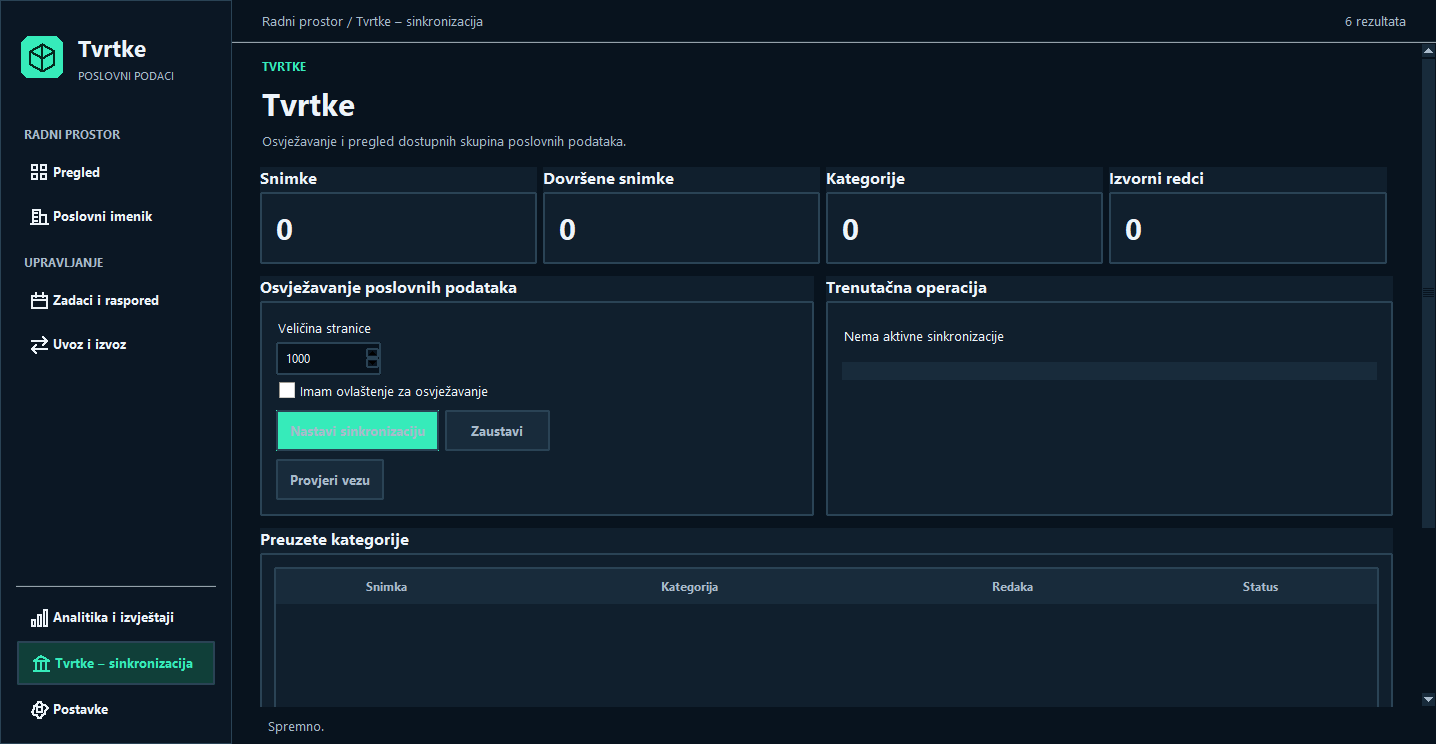
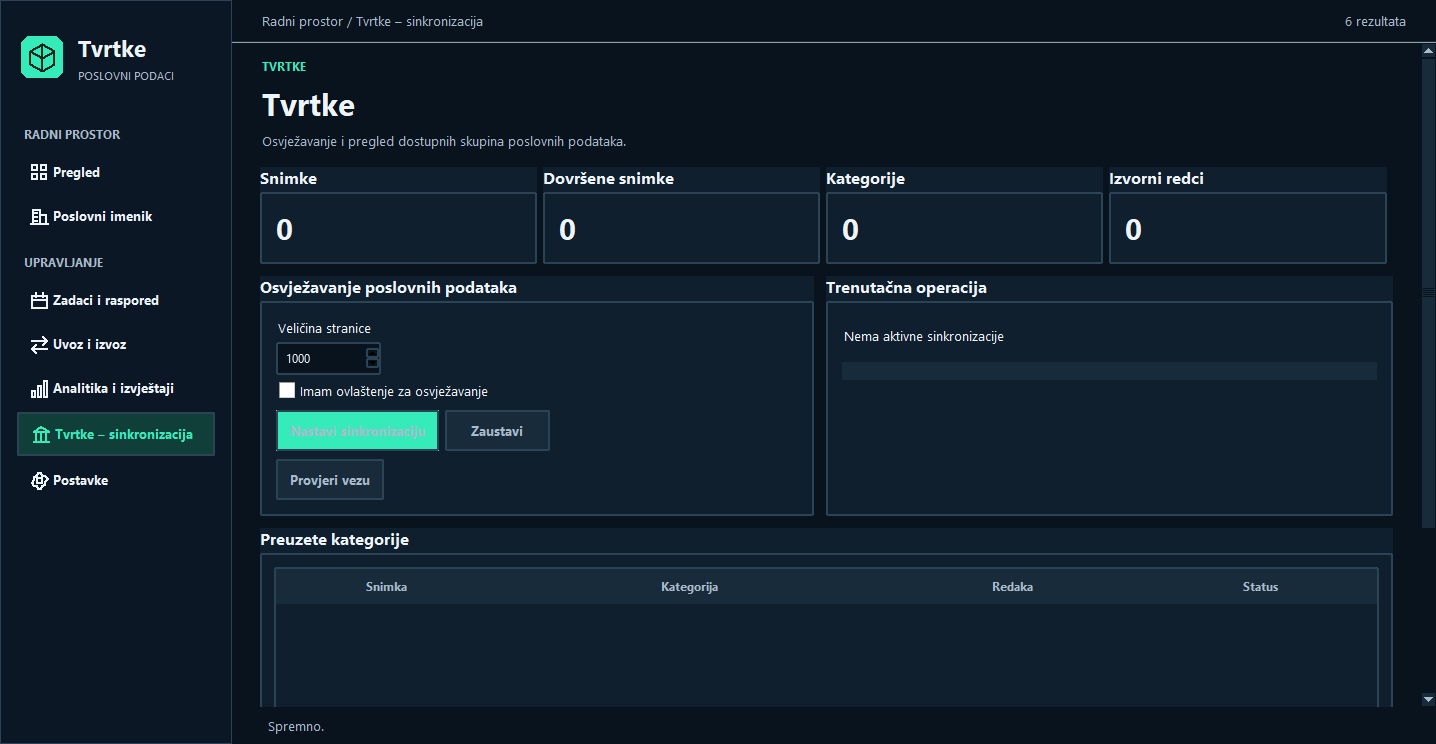
Keep all navigation items together and compact on small windows

Changed region(s): [[0.0, 0.8038, 0.1532, 0.9583], [0.0, 0.4946, 0.1532, 0.6492]]

diff --git a/static/index.html b/static/index.html
@@ -1,5 +1,5 @@
 <!doctype html><html lang="hr" data-theme="dark" data-language="__LANGUAGE__"><head><link rel="icon" href="/logo.svg" type="image/svg+xml"><meta charset="utf-8"><meta name="viewport" content="width=device-width, initial-scale=1"><meta name="local-token" content="__TOKEN__"><title>Tvrtke — Poslovni imenik</title><link rel="stylesheet" href="/style.css"><script defer src="/locale.js"></script><script defer src="/app.js"></script></head><body>
-<aside class="sidebar"><div class="brand"><div class="mark"><svg viewBox="0 0 32 32" fill="none"><path d="M16 4 28 11v10l-12 7L4 21V11L16 4Zm0 0v10m12-3-12 7-12-7m12 7v10M10 8l12 7" stroke="currentColor" stroke-width="2" stroke-linecap="round" stroke-linejoin="round"/></svg></div><div>Tvrtke<span>POSLOVNI PODACI</span></div></div><p class="nav-label">RADNI PROSTOR</p><nav><button class="nav active" data-view="overview" aria-current="page"><span class="ico"><svg viewBox="0 0 24 24" fill="none" stroke="currentColor" stroke-width="1.6" stroke-linecap="round" stroke-linejoin="round" aria-hidden="true" focusable="false"><rect x="3" y="3" width="7" height="7" rx="1"/><rect x="14" y="3" width="7" height="7" rx="1"/><rect x="3" y="14" width="7" height="7" rx="1"/><rect x="14" y="14" width="7" height="7" rx="1"/></svg></span> Pregled</button><button class="nav" data-view="directory"><span class="ico"><svg viewBox="0 0 24 24" fill="none" stroke="currentColor" stroke-width="1.6" stroke-linecap="round" stroke-linejoin="round" aria-hidden="true" focusable="false"><path d="M4 21V4h10v17M14 9h6v12M2 21h20M7 7h4M7 11h4M7 15h4M17 12h1M17 16h1"/></svg></span> Poslovni imenik</button></nav><p class="nav-label">UPRAVLJANJE</p><button class="nav" data-view="jobs"><span class="ico"><svg viewBox="0 0 24 24" fill="none" stroke="currentColor" stroke-width="1.6" stroke-linecap="round" stroke-linejoin="round" aria-hidden="true" focusable="false"><rect x="3" y="5" width="18" height="16" rx="2"/><path d="M7 3v4m10-4v4M3 10h18"/></svg></span> Zadaci i raspored</button><nav><button class="nav" data-view="data"><span class="ico"><svg viewBox="0 0 24 24" fill="none" stroke="currentColor" stroke-width="1.6" stroke-linecap="round" stroke-linejoin="round" aria-hidden="true" focusable="false"><path d="M3 7h16m-4-4 4 4-4 4M21 17H5m4-4-4 4 4 4"/></svg></span> Uvoz i izvoz</button></nav><div class="sidebottom"><div class="secondary-nav"><button class="nav" data-view="analytics"><span class="ico"><svg viewBox="0 0 24 24" fill="none" stroke="currentColor" stroke-width="1.6" stroke-linecap="round" stroke-linejoin="round" aria-hidden="true" focusable="false"><rect x="3" y="13" width="4" height="8" rx="1"/><rect x="10" y="8" width="4" height="13" rx="1"/><rect x="17" y="3" width="4" height="18" rx="1"/></svg></span> Analitika i izvještaji</button><button class="nav" data-view="registry"><span class="ico"><svg viewBox="0 0 24 24" fill="none" stroke="currentColor" stroke-width="1.6" stroke-linecap="round" stroke-linejoin="round" aria-hidden="true" focusable="false"><path d="m3 8 9-5 9 5H3Zm2 3v8m5-8v8m4-8v8m5-8v8M3 21h18"/></svg></span> Tvrtke – sinkronizacija</button><button class="nav" data-view="settings"><span class="ico"><svg viewBox="0 0 24 24" fill="none" stroke="currentColor" stroke-width="1.6" stroke-linecap="round" stroke-linejoin="round" aria-hidden="true" focusable="false"><path d="m10 3-.6 2.5-2 .9-2.4-1.1-2 3.4 2 1.7v2.2l-2 1.7 2 3.4 2.4-1.1 2 .9L10 21h4l.6-2.5 2-.9 2.4 1.1 2-3.4-2-1.7v-2.2l2-1.7-2-3.4-2.4 1.1-2-.9L14 3z"/><circle cx="12" cy="12" r="3"/></svg></span> Postavke</button></div></div></aside>
+<aside class="sidebar"><div class="brand"><div class="mark"><svg viewBox="0 0 32 32" fill="none"><path d="M16 4 28 11v10l-12 7L4 21V11L16 4Zm0 0v10m12-3-12 7-12-7m12 7v10M10 8l12 7" stroke="currentColor" stroke-width="2" stroke-linecap="round" stroke-linejoin="round"/></svg></div><div>Tvrtke<span>POSLOVNI PODACI</span></div></div><p class="nav-label">RADNI PROSTOR</p><nav><button class="nav active" data-view="overview" aria-current="page"><span class="ico"><svg viewBox="0 0 24 24" fill="none" stroke="currentColor" stroke-width="1.6" stroke-linecap="round" stroke-linejoin="round" aria-hidden="true" focusable="false"><rect x="3" y="3" width="7" height="7" rx="1"/><rect x="14" y="3" width="7" height="7" rx="1"/><rect x="3" y="14" width="7" height="7" rx="1"/><rect x="14" y="14" width="7" height="7" rx="1"/></svg></span> Pregled</button><button class="nav" data-view="directory"><span class="ico"><svg viewBox="0 0 24 24" fill="none" stroke="currentColor" stroke-width="1.6" stroke-linecap="round" stroke-linejoin="round" aria-hidden="true" focusable="false"><path d="M4 21V4h10v17M14 9h6v12M2 21h20M7 7h4M7 11h4M7 15h4M17 12h1M17 16h1"/></svg></span> Poslovni imenik</button></nav><p class="nav-label">UPRAVLJANJE</p><button class="nav" data-view="jobs"><span class="ico"><svg viewBox="0 0 24 24" fill="none" stroke="currentColor" stroke-width="1.6" stroke-linecap="round" stroke-linejoin="round" aria-hidden="true" focusable="false"><rect x="3" y="5" width="18" height="16" rx="2"/><path d="M7 3v4m10-4v4M3 10h18"/></svg></span> Zadaci i raspored</button><nav><button class="nav" data-view="data"><span class="ico"><svg viewBox="0 0 24 24" fill="none" stroke="currentColor" stroke-width="1.6" stroke-linecap="round" stroke-linejoin="round" aria-hidden="true" focusable="false"><path d="M3 7h16m-4-4 4 4-4 4M21 17H5m4-4-4 4 4 4"/></svg></span> Uvoz i izvoz</button></nav><nav><button class="nav" data-view="analytics"><span class="ico"><svg viewBox="0 0 24 24" fill="none" stroke="currentColor" stroke-width="1.6" stroke-linecap="round" stroke-linejoin="round" aria-hidden="true" focusable="false"><rect x="3" y="13" width="4" height="8" rx="1"/><rect x="10" y="8" width="4" height="13" rx="1"/><rect x="17" y="3" width="4" height="18" rx="1"/></svg></span> Analitika i izvještaji</button><button class="nav" data-view="registry"><span class="ico"><svg viewBox="0 0 24 24" fill="none" stroke="currentColor" stroke-width="1.6" stroke-linecap="round" stroke-linejoin="round" aria-hidden="true" focusable="false"><path d="m3 8 9-5 9 5H3Zm2 3v8m5-8v8m4-8v8m5-8v8M3 21h18"/></svg></span> Tvrtke – sinkronizacija</button><button class="nav" data-view="settings"><span class="ico"><svg viewBox="0 0 24 24" fill="none" stroke="currentColor" stroke-width="1.6" stroke-linecap="round" stroke-linejoin="round" aria-hidden="true" focusable="false"><path d="m10 3-.6 2.5-2 .9-2.4-1.1-2 3.4 2 1.7v2.2l-2 1.7 2 3.4 2.4-1.1 2 .9L10 21h4l.6-2.5 2-.9 2.4 1.1 2-3.4-2-1.7v-2.2l2-1.7-2-3.4-2.4 1.1-2-.9L14 3z"/><circle cx="12" cy="12" r="3"/></svg></span> Postavke</button></nav></aside>
 <main><header class="topbar"><div class="crumb">Radni prostor <span>/</span> <strong id="crumb">Pregled</strong></div><div class="top-actions"><button class="btn secondary small" id="top-export" data-go="data">⇄ Uvoz i izvoz</button></div></header>
 <section class="view" id="overview"><div class="heading"><div><div class="eyebrow">WEB POSLOVNI PODACI</div><h1>Pregled imenika</h1><p>Pronađite, istražite i organizirajte podatke o tvrtkama na jednom mjestu.</p></div><button class="btn primary" data-go="registry">＋ Sinkronizacija</button></div>
 <div class="metrics" id="metrics"></div><div class="overview-grid"><article class="panel"><div class="panel-head"><div><h2 class="icon-heading"><svg viewBox="0 0 24 24" fill="none" stroke="currentColor" stroke-width="1.6" stroke-linecap="round" stroke-linejoin="round" aria-hidden="true" focusable="false"><rect x="3" y="13" width="4" height="8" rx="1"/><rect x="10" y="8" width="4" height="13" rx="1"/><rect x="17" y="3" width="4" height="18" rx="1"/></svg><span>Najzastupljeniji gradovi</span></h2><p>Broj tvrtki po gradu</p></div><span class="tag">Top 6</span></div><div id="city-chart" class="chart"></div></article><article class="panel coverage"><div class="panel-head"><div><h2 class="icon-heading"><svg viewBox="0 0 24 24" fill="none" stroke="currentColor" stroke-width="1.6" stroke-linecap="round" stroke-linejoin="round" aria-hidden="true" focusable="false"><path d="m12 3 10 5-10 5L2 8zM2 12l10 5 10-5M2 16l10 5 10-5"/></svg><span>Dostupnost podataka</span></h2><p>Kontaktni podaci u imeniku</p></div></div><div id="coverage"></div><div class="hint">Udio se izračunava iz stvarnih zapisa u lokalnoj bazi.</div></article></div><article class="panel preview"><div class="panel-head"><div><h2 class="icon-heading"><svg viewBox="0 0 24 24" fill="none" stroke="currentColor" stroke-width="1.6" stroke-linecap="round" stroke-linejoin="round" aria-hidden="true" focusable="false"><ellipse cx="12" cy="5" rx="9" ry="3"/><path d="M3 5v7c0 4 18 4 18 0V5M3 12v7c0 4 18 4 18 0v-7"/></svg><span>Nedavni zapisi</span></h2><p>Brz pristup zapisima iz baze</p></div><button class="btn secondary small" data-go="directory">Otvori imenik →</button></div><div class="table-wrap"><table><thead><tr><th>Tvrtka</th><th>Grad</th><th>Telefon</th><th>Web stranica</th><th>Izvori</th><th>Akcija</th></tr></thead><tbody id="preview-rows"></tbody></table></div></article></section>

diff --git a/src/native_desktop.py b/src/native_desktop.py
@@ -61,6 +61,7 @@ class Desktop(SecondaryPages):
         sidebar.pack(side="left",fill="y")
         sidebar.pack_propagate(False)
         brand=tk.Frame(sidebar,bg=SIDE)
+        self.brand=brand
         brand.pack(fill="x",padx=20,pady=(28,25))
         logo=tk.Canvas(brand,width=42,height=42,bg=SIDE,highlightthickness=0)
         logo.pack(side="left",padx=(0,12))
@@ -72,8 +73,11 @@ class Desktop(SecondaryPages):
         self.sidebar=sidebar
         self.nav={}
         self.nav_icons={}
+        self.nav_labels=[]
         def nav_label(label):
-            tk.Label(sidebar,text=label,bg=SIDE,fg=MUTED,font=("Segoe UI",9,"bold")).pack(anchor="w",padx=20,pady=(14,5))
+            widget=tk.Label(sidebar,text=label,bg=SIDE,fg=MUTED,font=("Segoe UI",9,"bold"))
+            widget.pack(anchor="w",padx=20,pady=(14,5))
+            self.nav_labels.append(widget)
         def nav(key,label,command,parent=sidebar):
             self.nav_icons[key]=(nav_icon(root,key,TEXT),nav_icon(root,key,ACCENT))
             button=ttk.Button(parent,text=label,image=self.nav_icons[key][0],compound="left",style="Nav.TButton",command=command)
@@ -85,12 +89,9 @@ class Desktop(SecondaryPages):
         nav_label("UPRAVLJANJE")
         nav("jobs","Zadaci i raspored",lambda:self.show_view("jobs"))
         nav("data","Uvoz i izvoz",lambda:self.show_view("data"))
-        bottom=tk.Frame(sidebar,bg=SIDE)
-        bottom.pack(side="bottom",fill="x",pady=(0,12))
-        ttk.Separator(bottom).pack(fill="x",padx=15,pady=(0,8))
-        nav("analytics","Analitika i izvještaji",lambda:self.show_view("analytics"),bottom)
-        nav("registry","Tvrtke – sinkronizacija",lambda:self.show_view("registry"),bottom)
-        nav("settings","Postavke",lambda:self.show_view("settings"),bottom)
+        nav("analytics","Analitika i izvještaji",lambda:self.show_view("analytics"))
+        nav("registry","Tvrtke – sinkronizacija",lambda:self.show_view("registry"))
+        nav("settings","Postavke",lambda:self.show_view("settings"))
         main=ttk.Frame(shell)
         main.pack(side="left",fill="both",expand=True)
         self.header=ttk.Frame(main,padding=(28,10))
@@ -145,6 +146,14 @@ class Desktop(SecondaryPages):
             if int(self.sidebar.cget("width"))!=width:
                 self.sidebar.configure(width=width)
                 self.nav["registry"].configure(text="Tvrtke – sinkronizacija" if width>=205 else "Sinkronizacija")
+            short=event.height<580
+            if getattr(self,"short_navigation",None)!=short:
+                self.short_navigation=short
+                self.brand.pack_configure(pady=(10,8) if short else (28,25))
+                for label in self.nav_labels:label.pack_configure(pady=(5,2) if short else (14,5))
+                for button in self.nav.values():button.pack_configure(pady=0 if short else 2)
+                style=ttk.Style(self.root)
+                for name in ("Nav.TButton","Active.Nav.TButton"):style.configure(name,padding=(7,3) if short else (11,9))
             self.reflow_layout()
             self.resize_content()
 

diff --git a/tools/capture_native.py b/tools/capture_native.py
@@ -88,7 +88,9 @@ def run(output,reference):
                     while time.monotonic()<until:root.update();time.sleep(.02)
                     def reachable():
                         box=app.viewport.bbox(app.content_window)
-                        return not root.attributes("-fullscreen") and box and box[2]>=app.content.winfo_reqwidth() and box[3]>=app.content.winfo_reqheight()
+                        return (not root.attributes("-fullscreen") and box and box[2]>=app.content.winfo_reqwidth()
+                                and box[3]>=app.content.winfo_reqheight()
+                                and all(b.winfo_ismapped() and b.winfo_height()>15 and b.winfo_y()+b.winfo_height()<=app.sidebar.winfo_height() for b in app.nav.values()))
                     try:wait(root,reachable,timeout=3)
                     except RuntimeError as error:raise RuntimeError(f"Unreachable content: {key} {w}x{h}") from error
                 print(f"All seven views accessible via viewport at {w}x{h}",flush=True)
